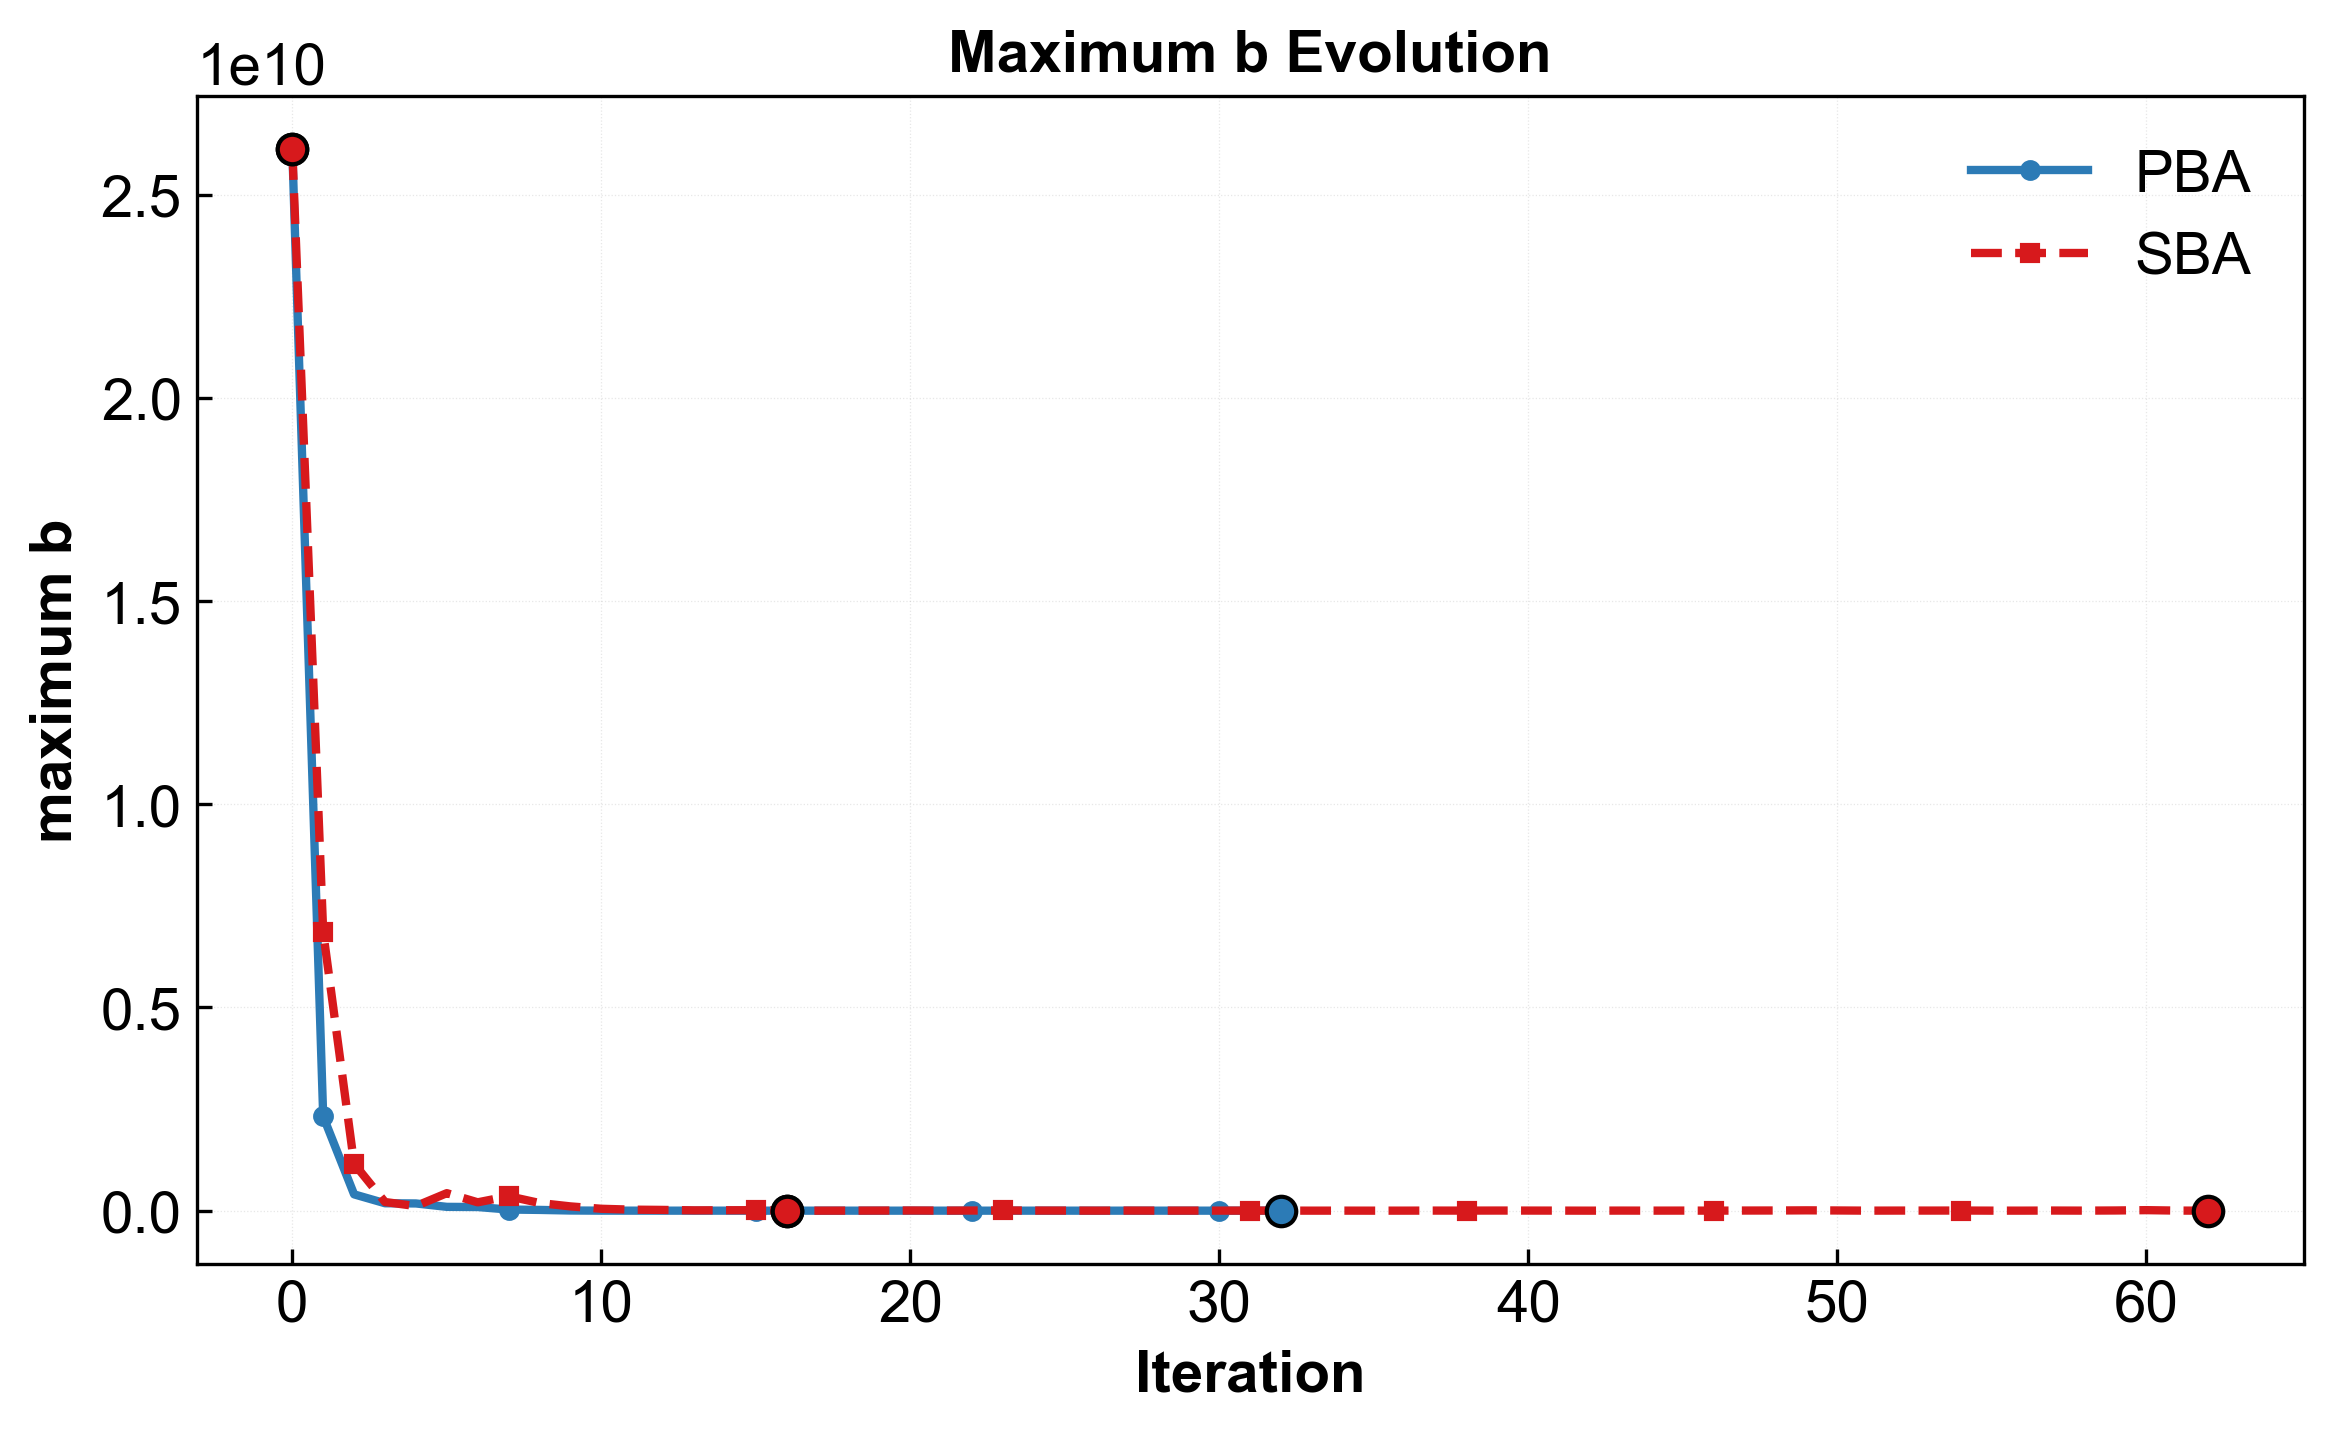
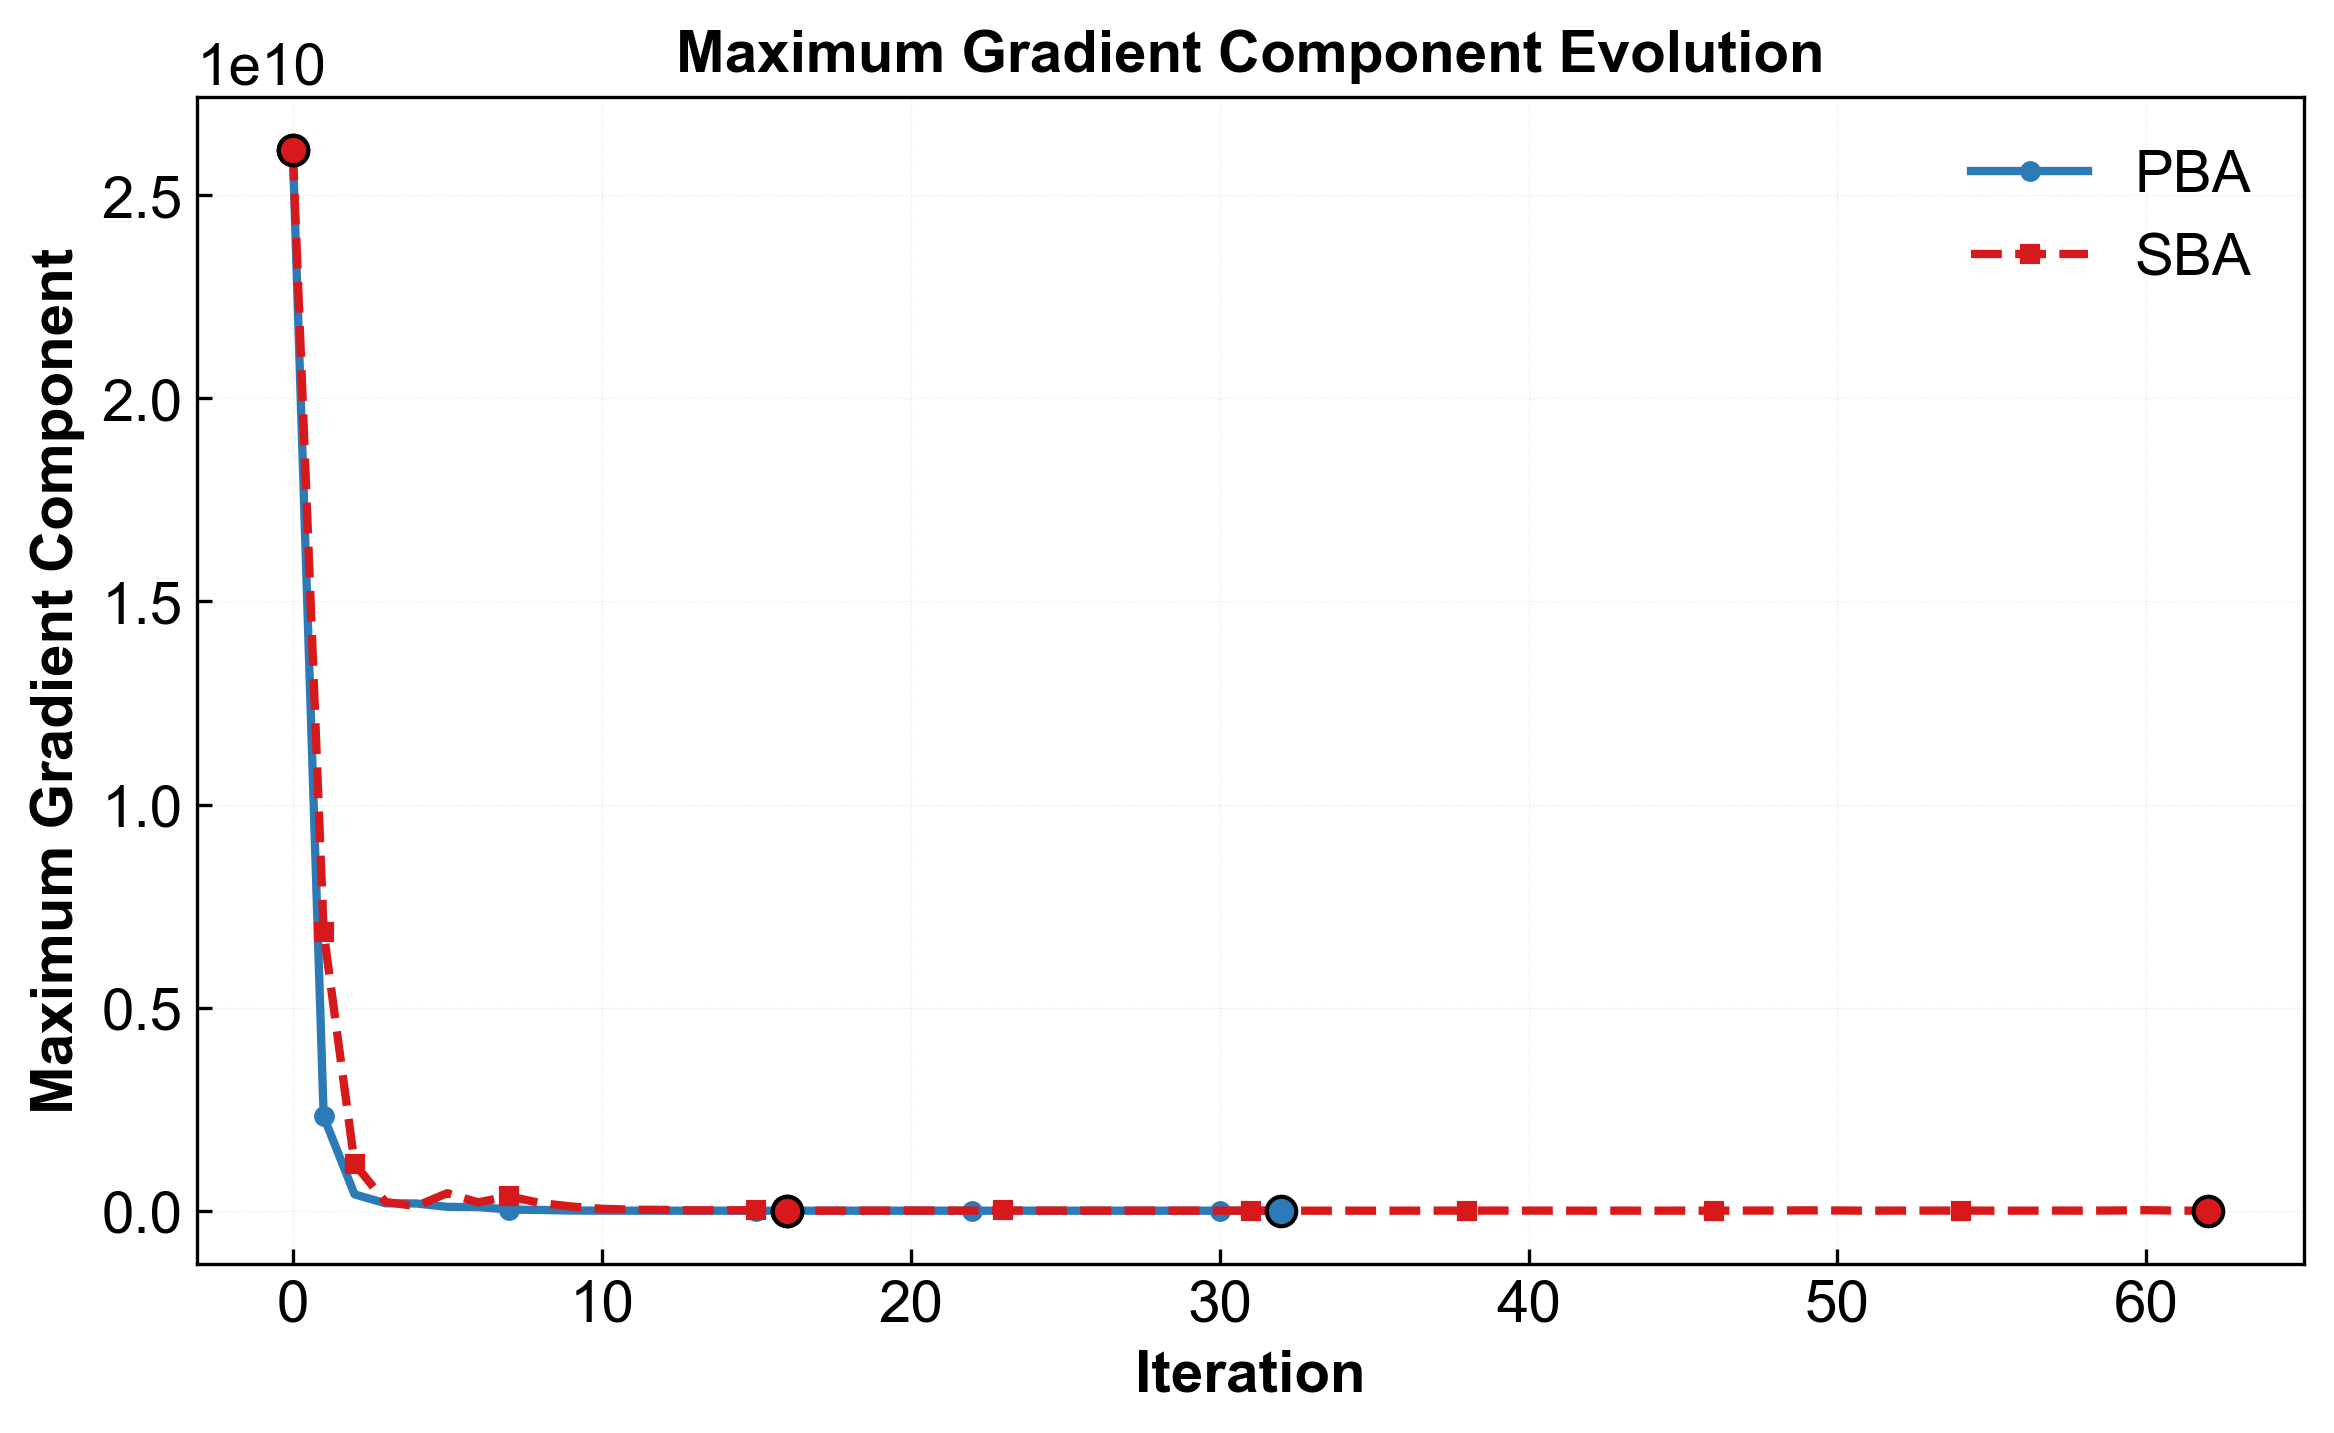
Update Readme and Python File

diff --git a/python/sigma_spectral.py b/python/sigma_spectral.py
@@ -582,11 +582,11 @@ def plot_binf_evolution():
             linestyle='--', marker='s', markersize=4, markevery=0.1, label='SBA')
     
     ax.set_xlabel("Iteration", fontsize=14, fontweight='bold')
-    ax.set_ylabel("maximum b", fontsize=14, fontweight='bold')
+    ax.set_ylabel("Maximum Gradient Component", fontsize=14, fontweight='bold')
     # ax.set_yscale('log')
     ax.grid(True, linestyle=':', linewidth=0.3, alpha=0.3)
     ax.legend(frameon=False, loc='best', fontsize=14)
-    ax.set_title('Maximum b Evolution', fontsize=14, fontweight='bold')
+    ax.set_title('Maximum Gradient Component Evolution', fontsize=14, fontweight='bold')
     
     # 标注关键点
     ax.scatter([0, mid_iter, n_iterations_pba], 
@@ -604,6 +604,42 @@ def plot_binf_evolution():
     plt.savefig(output_png, format='png', dpi=300, bbox_inches='tight')
     # plt.show()
     print(f"binf evolution saved to {output_pdf}")
+
+def plot_binf_evolution_log_scale():
+    """绘制梯度最大分量随迭代的演化"""
+    fig, ax = plt.subplots(figsize=(8, 5), dpi=300)
+    
+    iterations_pba = np.arange(0, n_iterations_pba + 1)
+    iterations_sba = np.arange(0, n_iterations_sba + 1)
+    
+    ax.plot(iterations_pba, pba_binf, color=pba_color, linewidth=2.0, 
+            marker='o', markersize=4, markevery=0.1, label='PBA')
+    ax.plot(iterations_sba, sba_binf, color=sba_color, linewidth=2.0, 
+            linestyle='--', marker='s', markersize=4, markevery=0.1, label='SBA')
+    
+    ax.set_xlabel("Iteration", fontsize=14, fontweight='bold')
+    ax.set_ylabel("Maximum Gradient Component (log scale)", fontsize=14, fontweight='bold')
+    ax.set_yscale('log')
+    ax.grid(True, linestyle=':', linewidth=0.3, alpha=0.3)
+    ax.legend(frameon=False, loc='best', fontsize=14)
+    ax.set_title('Maximum Gradient Component Evolution', fontsize=14, fontweight='bold')
+    
+    # 标注关键点
+    ax.scatter([0, mid_iter, n_iterations_pba], 
+              [pba_binf[0], pba_binf[mid_iter], pba_binf[-1]], 
+              color=pba_color, s=50, zorder=5, edgecolors='black')
+    ax.scatter([0, mid_iter, n_iterations_sba], 
+              [sba_binf[0], sba_binf[mid_iter], sba_binf[-1]], 
+              color=sba_color, s=50, zorder=5, edgecolors='black')
+    
+    plt.tight_layout()
+    
+    output_pdf = directory + '/binf_evolution_log_scale.pdf'
+    output_png = directory + '/binf_evolution_log_scale.png'
+    plt.savefig(output_pdf, format='pdf', dpi=300, bbox_inches='tight')
+    plt.savefig(output_png, format='png', dpi=300, bbox_inches='tight')
+    # plt.show()
+    print(f"binf_log_scale evolution saved to {output_pdf}")
 
 # 可选：创建状态变量的相对变化量演化图
 def plot_rsc_evolution():
@@ -800,13 +836,14 @@ def plot_nLimIte_evolution():
     print(f"nLmIt evolution saved to {output_pdf}")
 
 # plot_condition_evolution()
-plot_damping_evolution()
-plot_damping_evolution_log()
+# plot_damping_evolution()
+# plot_damping_evolution_log()
 # plot_rho_evolution()
 # plot_sigma_min_evolution()
 # plot_sigma_max_evolution()
 # plot_error_evolution()
-# plot_binf_evolution()
+plot_binf_evolution()
+plot_binf_evolution_log_scale()
 # plot_rsc_evolution()
 # plot_rmc_evolution()
 # plot_b_lips_evolution()
